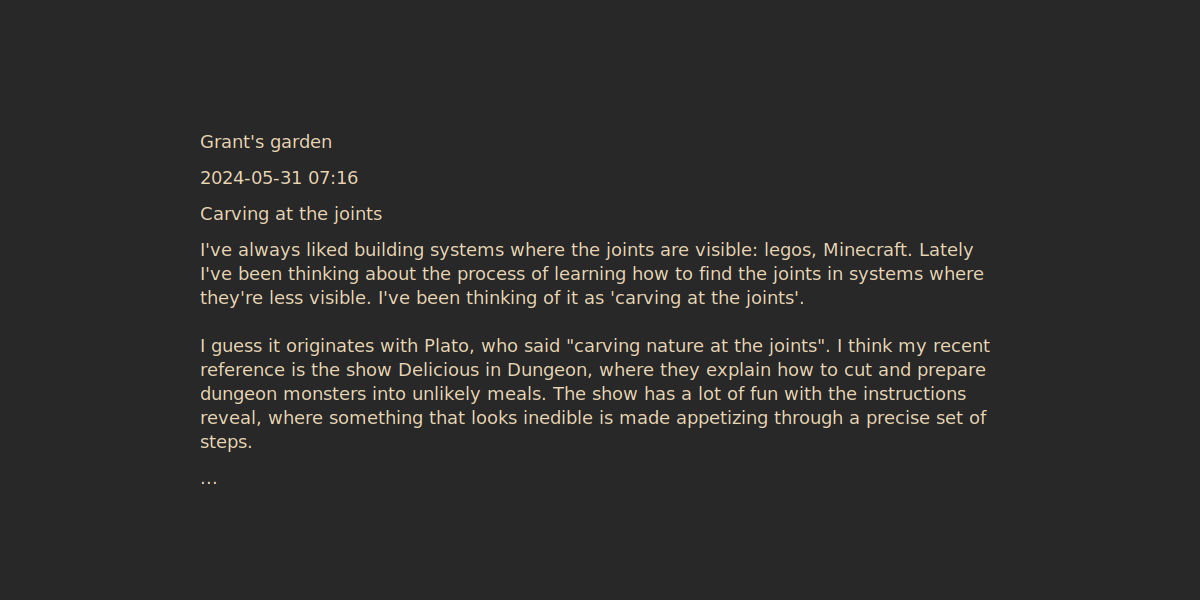
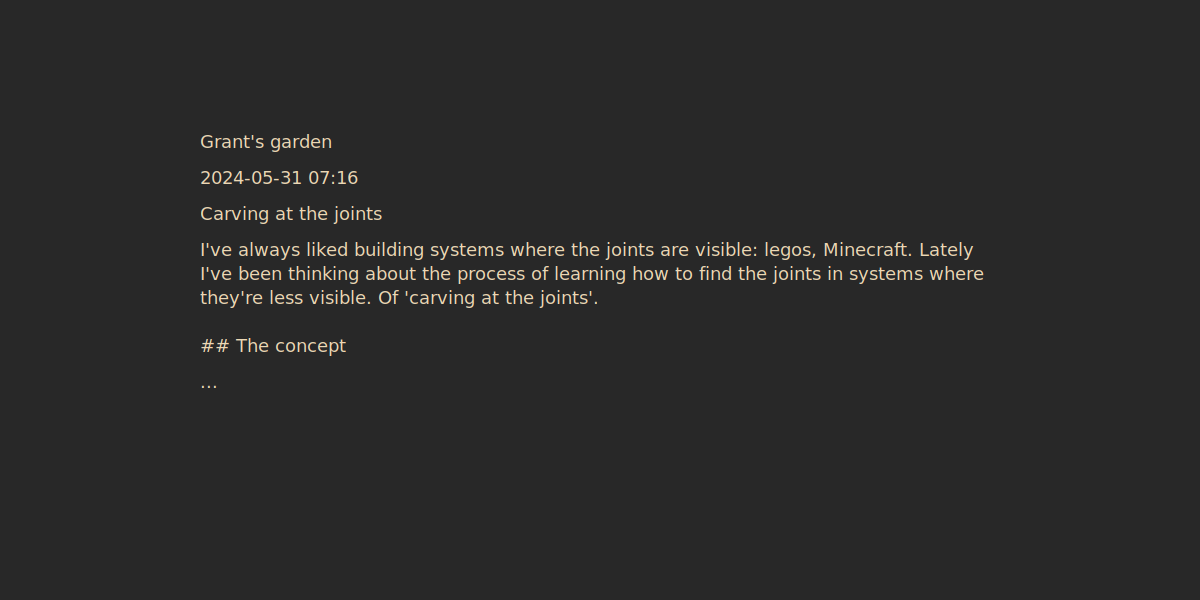
Joints edit

Changed region(s): [[0.1542, 0.57, 0.8325, 0.75], [0.3083, 0.48, 0.6783, 0.51]]

diff --git a/output/2024-05-31-07-16-31-Carving-at-the-joints/index.html b/output/2024-05-31-07-16-31-Carving-at-the-joints/index.html
@@ -3,7 +3,7 @@
     <title>Carving at the joints - Grant's Garden</title>
     <meta
       name="description"
-      content="I've always liked building systems where the joints are visible: legos, Minecraft. Lately I've been thinking about the process of learning how to find the joints in systems where they're less visible. I've been thinking of it as 'carving at the joints'."
+      content="I've always liked building systems where the joints are visible: legos, Minecraft. Lately I've been thinking about the process of learning how to find the joints in systems where they're less visible. Of 'carving at the joints'."
     />
     <meta
       property="og:title"
@@ -11,7 +11,7 @@
     />
     <meta
       property="og:description"
-      content="I've always liked building systems where the joints are visible: legos, Minecraft. Lately I've been thinking about the process of learning how to find the joints in systems where they're less visible. I've been thinking of it as 'carving at the joints'."
+      content="I've always liked building systems where the joints are visible: legos, Minecraft. Lately I've been thinking about the process of learning how to find the joints in systems where they're less visible. Of 'carving at the joints'."
     />
     <meta
       property="og:image"
@@ -33,26 +33,30 @@
       <p>
         I've always liked building systems where the joints are visible: legos,
         Minecraft. Lately I've been thinking about the process of learning how
-        to find the joints in systems where they're less visible. I've been
-        thinking of it as 'carving at the joints'.
+        to find the joints in systems where they're less visible. Of 'carving at
+        the joints'.
+      </p>
+      <h2 id="the-concept">The concept</h2>
+      <p>
+        Apparently Plato talked about "carving nature at the joints". I think my
+        recent reference is the show Delicious in Dungeon, where they explain
+        how to cut and prepare dungeon monsters into unlikely meals. The show
+        has a lot of fun with the instructions reveal, where something that
+        looks inedible is made appetizing through a precise set of steps.
       </p>
       <p>
-        I guess it originates with Plato, who said "carving nature at the
-        joints". I think my recent reference is the show Delicious in Dungeon,
-        where they explain how to cut and prepare dungeon monsters into unlikely
-        meals. The show has a lot of fun with the instructions reveal, where
-        something that looks inedible is made appetizing through a precise set
-        of steps.
+        Joints are opportunities for you to modify, to splice in or switch
+        parts.
       </p>
       <p>
-        With projects I've been thinking about this with electronics. Compared
-        to something like woodworking, electronics seems harder to tell where
-        the joints are -- and the joings are the opportunities for you to
-        modify, to splice in or replace parts. But as you try a few projects,
-        and watch the YouTube DIY examples, you start to see.
+        I've been thinking about this with electronics. Compared to something
+        like woodworking, electronics seems harder to tell where the joints are.
+        But as you try a few projects, and watch the YouTube DIY examples, you
+        start to see. Almost like x-ray vision.
       </p>
+      <h2 id="carving-up-computer-hardware">Carving up computer hardware</h2>
       <p>
-        For computerr projects you can start with the components that are
+        For computer projects you can start with the components that are
         actually sold separately. Screen, computer, battery, keyboard and mouse.
         I've got a kind of portable cyberdeck going now with a Mini PC, a
         battery, a set of AR glasses and a keyboard. A laptop broken into it's
@@ -65,8 +69,9 @@
         a process which makes more concrete to me the wifi antenna as a piece of
         tech.
       </p>
+      <h2 id="carving-up-ai">Carving up AI</h2>
       <p>
-        I like the idea of 'looking for the joints' when I approach a system.
+        I like the idea of 'looking for the joints' when I approach any system.
         I've been thinking about this even with AI model experiments. Models are
         a weird set of capabilities, I want to find the right set of
         capabilities and splice them together with other software pieces to make

diff --git a/content/posts/2024-05-31-07-16-31-Carving-at-the-joints.md b/content/posts/2024-05-31-07-16-31-Carving-at-the-joints.md
@@ -1,13 +1,21 @@
 # Carving at the joints
 
-I've always liked building systems where the joints are visible: legos, Minecraft. Lately I've been thinking about the process of learning how to find the joints in systems where they're less visible. I've been thinking of it as 'carving at the joints'.
+I've always liked building systems where the joints are visible: legos, Minecraft. Lately I've been thinking about the process of learning how to find the joints in systems where they're less visible. Of 'carving at the joints'.
 
-I guess it originates with Plato, who said "carving nature at the joints". I think my recent reference is the show Delicious in Dungeon, where they explain how to cut and prepare dungeon monsters into unlikely meals. The show has a lot of fun with the instructions reveal, where something that looks inedible is made appetizing through a precise set of steps.
+## The concept
 
-With projects I've been thinking about this with electronics. Compared to something like woodworking, electronics seems harder to tell where the joints are -- and the joings are the opportunities for you to modify, to splice in or replace parts. But as you try a few projects, and watch the YouTube DIY examples, you start to see.
+Apparently Plato talked about "carving nature at the joints". I think my recent reference is the show Delicious in Dungeon, where they explain how to cut and prepare dungeon monsters into unlikely meals. The show has a lot of fun with the instructions reveal, where something that looks inedible is made appetizing through a precise set of steps.
 
-For computerr projects you can start with the components that are actually sold separately. Screen, computer, battery, keyboard and mouse. I've got a kind of portable cyberdeck going now with a Mini PC, a battery, a set of AR glasses and a keyboard. A laptop broken into it's parts and rearranged.
+Joints are opportunities for you to modify, to splice in or switch parts.
+
+I've been thinking about this with electronics. Compared to something like woodworking, electronics seems harder to tell where the joints are. But as you try a few projects, and watch the YouTube DIY examples, you start to see. Almost like x-ray vision.
+
+## Carving up computer hardware
+
+For computer projects you can start with the components that are actually sold separately. Screen, computer, battery, keyboard and mouse. I've got a kind of portable cyberdeck going now with a Mini PC, a battery, a set of AR glasses and a keyboard. A laptop broken into it's parts and rearranged.
 
 I've also partially disassembled some laptops, removing a broken display and instead routing it to a monitor for a 'headless' laptop. I've accidently disconnected the Wifi antenna and needed to add it back in -- a process which makes more concrete to me the wifi antenna as a piece of tech.
 
-I like the idea of 'looking for the joints' when I approach a system. I've been thinking about this even with AI model experiments. Models are a weird set of capabilities, I want to find the right set of capabilities and splice them together with other software pieces to make the creative experiences I'm after.
+## Carving up AI
+
+I like the idea of 'looking for the joints' when I approach any system. I've been thinking about this even with AI model experiments. Models are a weird set of capabilities, I want to find the right set of capabilities and splice them together with other software pieces to make the creative experiences I'm after.
